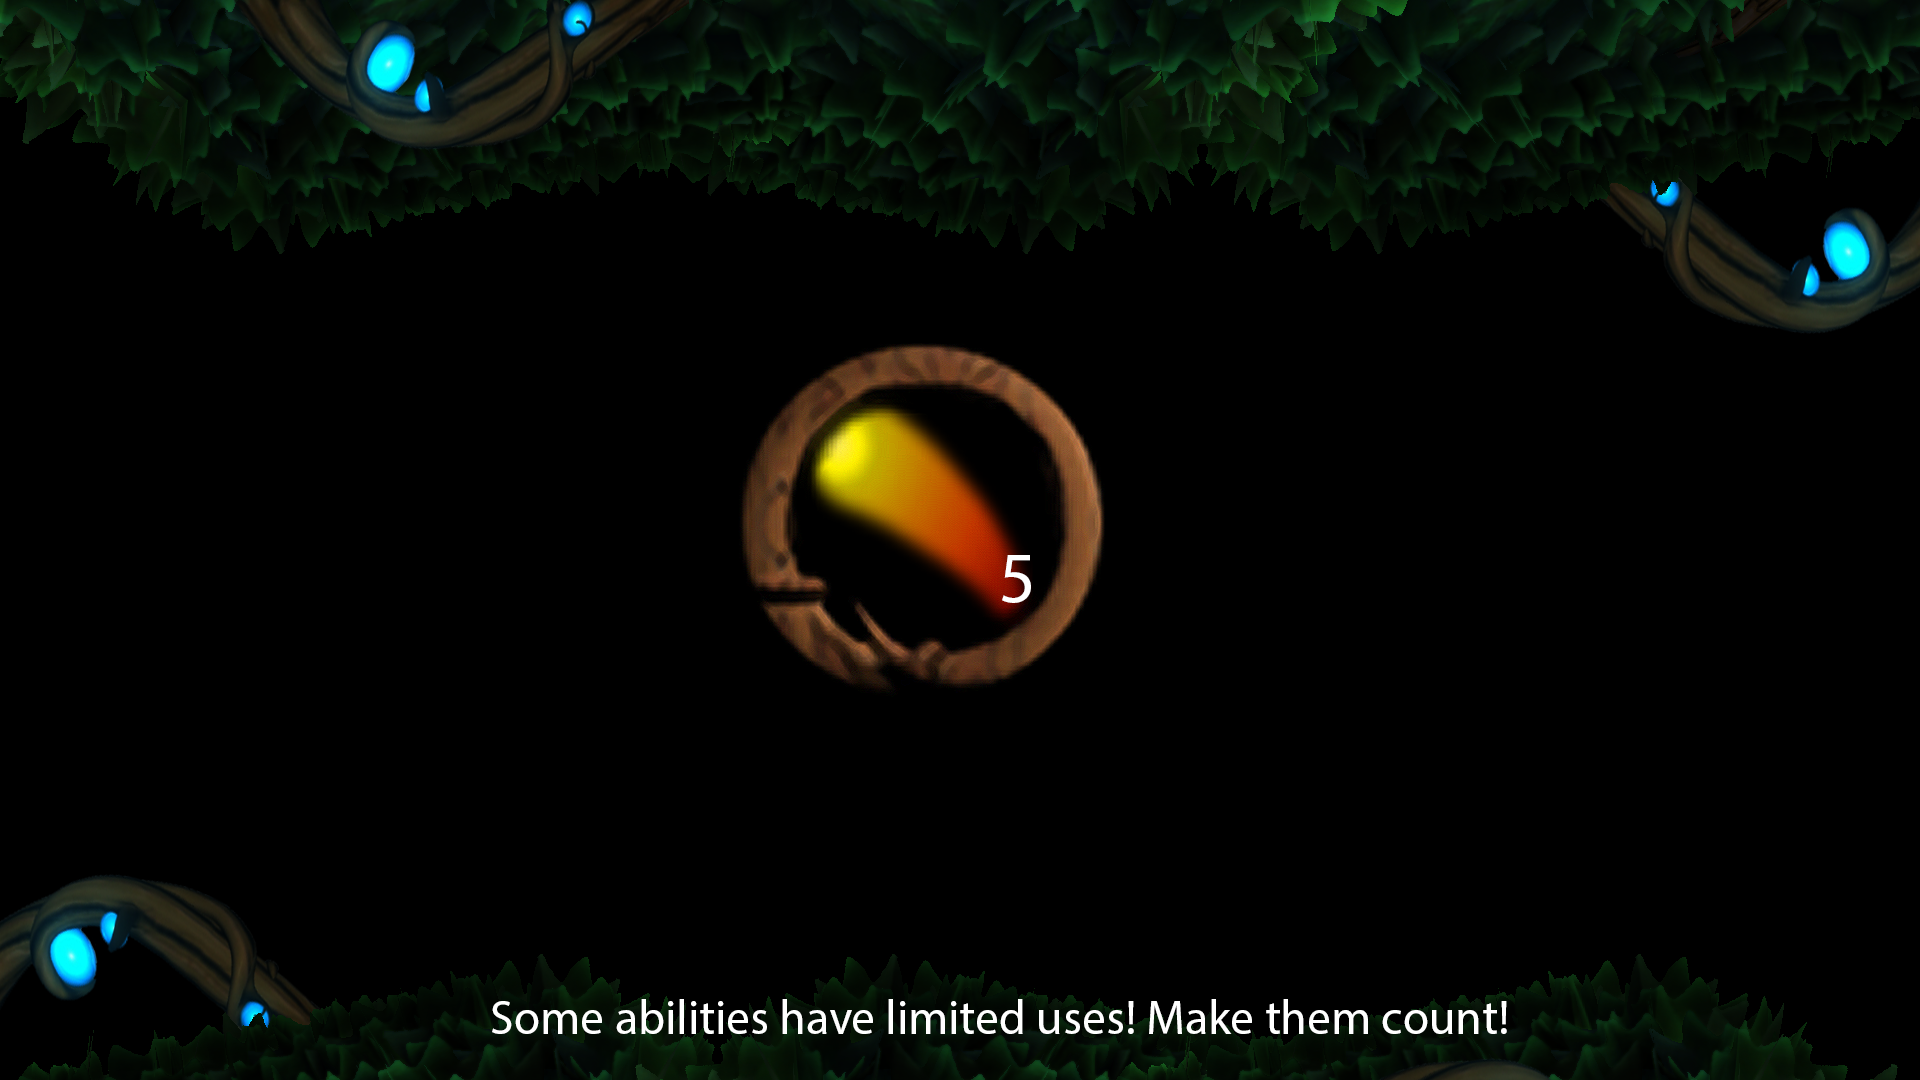
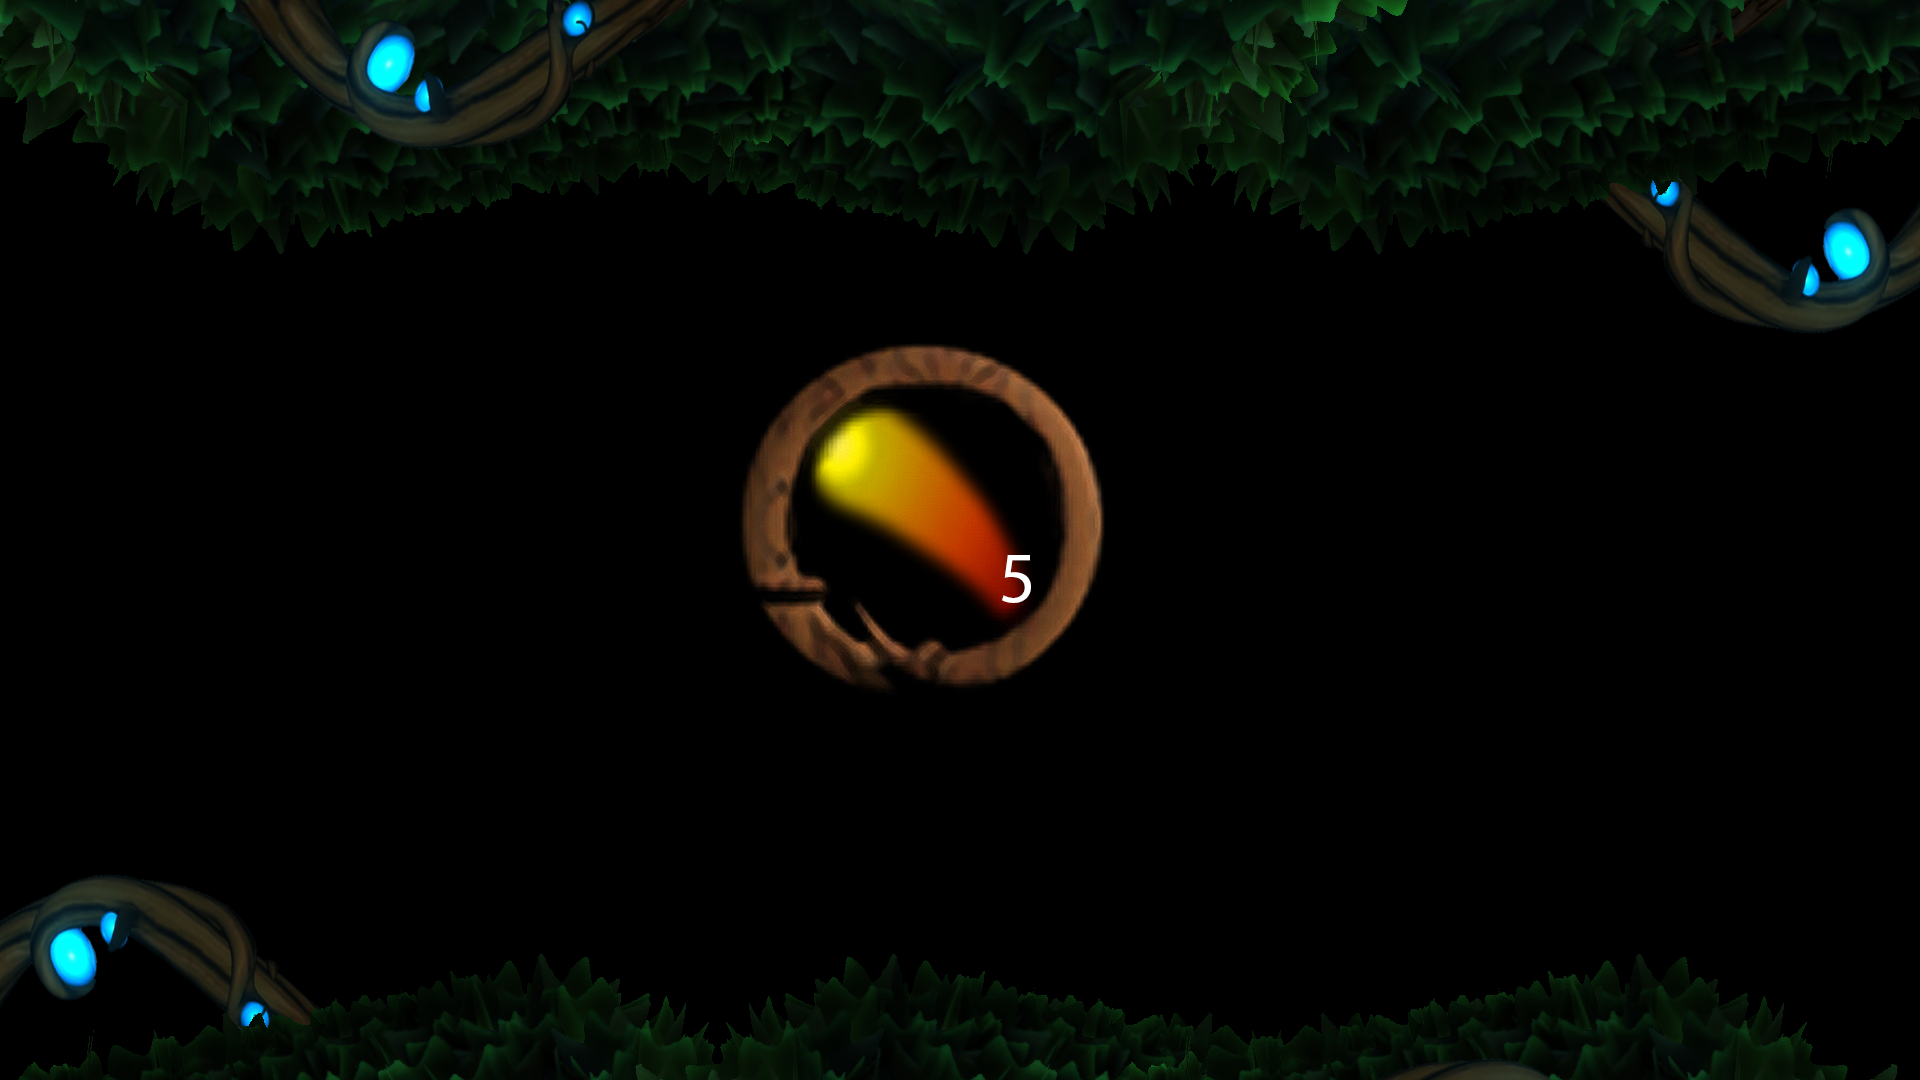
Implemented new loading screen with text now written in the GUI code

Changed region(s): [[0.25, 0.9167, 0.7812, 0.9778]]

diff --git a/Assets/GUI/loading.html b/Assets/GUI/loading.html
@@ -1,6 +1,12 @@
 <html>
   <head>
     <style type="text/css">
+		@font-face
+		{
+		  font-family: 'Sherwood';
+		  src: url("SHERWOOD.TTF");
+		}
+	
       body {
         position: absolute;
         top: 0;
@@ -11,6 +17,26 @@
         background: url('loading.jpg') #000066;
         background-size: 100% 100%;
       }
+	  #text
+	  {
+		font-family: Sherwood;
+		color: white;
+		font-size: 40px;
+	  }
+	  #tutorial-text
+	  {
+		font-family: Sherwood;
+		color: white;
+		width: 100%;
+		height: 80px;
+		font-size: 40px;
+		text-align: center;
+		position: absolute;
+		top: 100%;
+		left: 0;
+		margin-top: -150px;
+		width: 100%;
+	  }
     </style>
 		<script type="text/javascript" src="jquery-2.0.3.min.js"></script>
 		<script type="text/Javascript">
@@ -19,10 +45,31 @@
 				var num = Math.floor(Math.random()*9)+1;
 				$("body").css("background", "url('loading"+num+".png')");
 				$("body").css("background-size", "100% 100%");
+				
+				if(num == 1)
+					$("#tutorial-text").html("This is an ability! Press 'Shift' to pick it up!");
+				else if(num == 2)
+					$("#tutorial-text").html("These are your ability slots! Toggle your selected ability with '1,2,3' or cycle with 'q'");
+				else if(num == 3)
+					$("#tutorial-text").html("Some abilities have limited charges! Make them count!");
+				else if(num == 4)
+					$("#tutorial-text").html("Don't like your team mates? Switch teams in the in-game menu!");
+				else if(num == 5)
+					$("#tutorial-text").html("Stay out of the water");
+				else if(num == 6)
+					$("#tutorial-text").html("You can change the controls from the settings menu");
+				else if(num == 7)
+					$("#tutorial-text").html("Use the 'right mouse button' to push your enemies away!");
+				else if(num == 8)
+					$("#tutorial-text").html("This is your health. Don't let it get to zero!");
+				else if(num == 9)
+					$("#tutorial-text").html("You can see the team scores and the time left in the top right corner!");
 			};
 			$(document).ready(Shuffle);
 		</script>
   </head>
-  <body>
+  <body> 
+	<div id="text"> Loading... </div>
+	<div id="tutorial-text"> </div>
   </body>
 </html>
